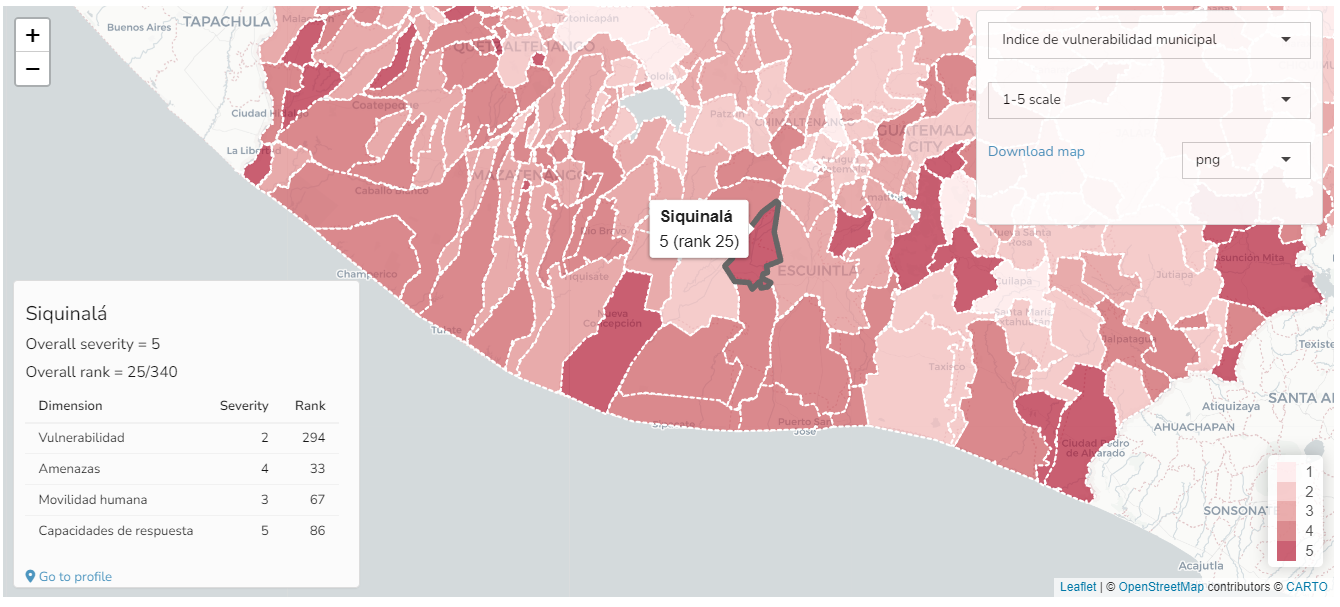
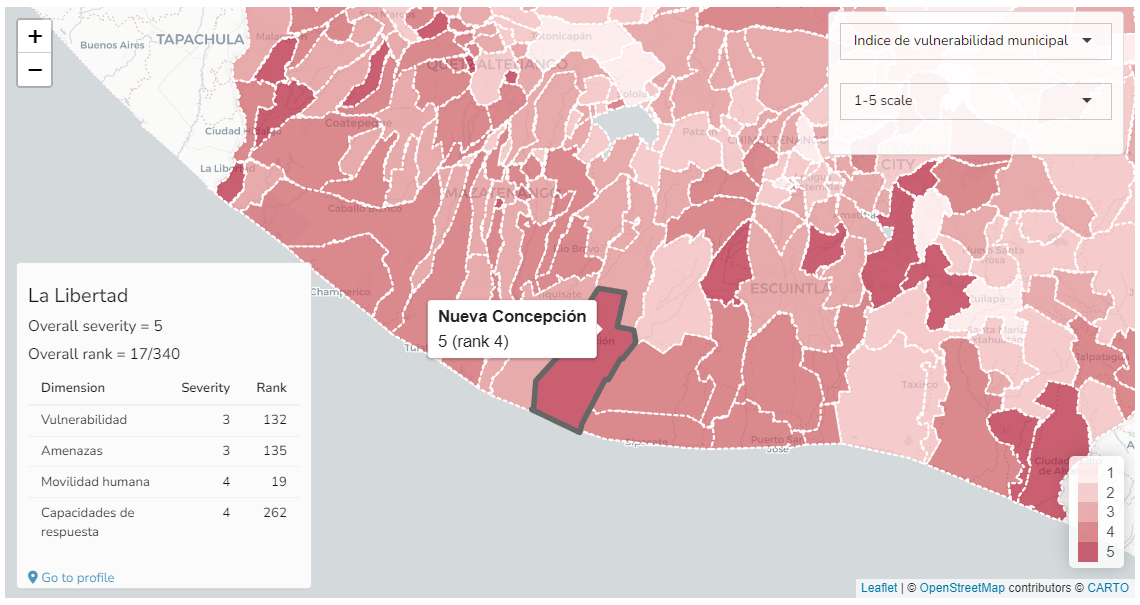
book updates

diff --git a/docs/book/results.html b/docs/book/results.html
@@ -212,6 +212,7 @@ ul.task-list li input[type="checkbox"] {
   <li><a href="#map-and-table" id="toc-map-and-table" class="nav-link" data-scroll-target="#map-and-table"><span class="header-section-number">5.2</span> Map and table</a></li>
   <li><a href="#bar-chart" id="toc-bar-chart" class="nav-link" data-scroll-target="#bar-chart"><span class="header-section-number">5.3</span> Bar chart</a></li>
   <li><a href="#scenarios" id="toc-scenarios" class="nav-link" data-scroll-target="#scenarios"><span class="header-section-number">5.4</span> Scenarios</a></li>
+  <li><a href="#export" id="toc-export" class="nav-link" data-scroll-target="#export"><span class="header-section-number">5.5</span> Export</a></li>
   </ul>
 </nav>
     </div>
@@ -252,7 +253,6 @@ ul.task-list li input[type="checkbox"] {
 <p>In the main “Results” box, the top level of the index is plotted on the map, with colour shading representing the index scores. The map is interactive, allowing you to pan and zoom using by clicking and dragging, or scrolling with the mouse wheel.</p>
 <p>Hovering over each region gives further details about the region, including its score and rank. Clicking on a region will open a box in the bottom left with more details, including its scores and ranks for the aggregation level below the index, as well as its overall score and rank. Clicking on the “Go to profile” link here will go to an even more detailed profile of that region, which is explained later in <a href="profiles.html"><span>Chapter&nbsp;6</span></a>.</p>
 <p>You can change which indicator or aggregate is plotted on the map using the uppermost dropdown menu in the top right of this box. You can also select whether to view the scores as a 1-5 (categorical) scale or on the 1-100 scale (raw values at the indicator level).</p>
-<p>The map is downloadable in various formats by selecting the file format (either png, jpeg, pdf or html) and clicking the “download map” link. Capturing the map images is unfortunately not perfect and you may have to experiment a little to get the best results. An alternative, which can offer more control, may be to download the map as an HTML file, then open it in a separate tab, and save the image there using the “print to pdf” functionality in your browser, or to simply take a screenshot (in the latter case, you can maximise the window with F11 and take a screenshot of the full window using Windows’ “snipping” tool, for example).</p>
 <p>In the same “Results” box you can also select the “Table” tab to see the results as a table.</p>
 <p><img src="figs/results_2.png" class="img-fluid" style="width:100.0%"></p>
 <p>The table is colour-formatted to help highlight high and low values. The table rows are sorted by the highest index score downwards, and the columns are sorted from the highest level downwards. You can sort the table by different columns by clicking on the column headers, and search for particular units using the search box.</p>
@@ -264,10 +264,19 @@ ul.task-list li input[type="checkbox"] {
 </section>
 <section id="scenarios" class="level2" data-number="5.4">
 <h2 data-number="5.4" class="anchored" data-anchor-id="scenarios"><span class="header-section-number">5.4</span> Scenarios</h2>
-<p>By default the index is calculated using the arithmetic mean, which implies that low (high) scores in one indicator are perfectly compensated by high (low) scores in another. Optionally, select “Scenario 2” which uses the geometric mean: in this case lower scores in one indicator are less compensated by higher scores in others, or “Scenario 3” which implies even less compensation. Click “Recalculate” to see the new results.</p>
+<p>By default the index is calculated using the arithmetic mean, which implies that low (high) scores in one indicator are perfectly compensated by high (low) scores in another. Optionally, in the “Adjust” box, select “Scenario 2” which uses the geometric mean: in this case lower scores in one indicator are less compensated by higher scores in others, or “Scenario 3” which implies even less compensation. Click “Recalculate” to see the new results. More details on the aggregation methods are given in <a href="aggregation_weighting.html"><span>Chapter&nbsp;11</span></a>.</p>
+<p><img src="figs/results_4.png" class="img-fluid" style="width:40.0%"></p>
 <p>Importantly, the scenario selected here will be used as the “main” results in the rest of the app, including in the “Profiles” and “Region comparison” tabs. All scenarios can additionally be compared in one place in the “Scenarios” tab, which is explained in <a href="scenarios.html"><span>Chapter&nbsp;7</span></a>.</p>
-<p>Clicking on the ‘gear’ icon in the top right of this box opens the option to adjust weights. If this is enabled, you can interactively adjust weights for the highest level of the index (below the index). However, in general equal weights are strongly recommended unless there is a specific reason to weight otherwise.</p>
-<p>More details on the aggregation methods are given in <a href="aggregation_weighting.html"><span>Chapter&nbsp;11</span></a>.</p>
+<p>Clicking on the ‘gear’ icon in the top right of this box opens the option to adjust weights. If this is enabled, you can interactively adjust weights for the highest level of the index (below the index). <em>Please note however, this feature is not well-tested.</em> Additionally, in general equal weights are strongly recommended unless there is a specific reason to weight otherwise. If weight adjustments are required, it is probably better to do this in the input Excel file.</p>
+</section>
+<section id="export" class="level2" data-number="5.5">
+<h2 data-number="5.5" class="anchored" data-anchor-id="export"><span class="header-section-number">5.5</span> Export</h2>
+<p>The Export box contains options for exporting the results to Excel or R, or to download map images.</p>
+<p><img src="figs/results_5.png" class="img-fluid" style="width:40.0%"></p>
+<p>The map is downloadable in various formats by selecting the file format (either png, jpeg, pdf or html) and clicking the “Click to download” link. Capturing the map images is unfortunately not perfect and you may have to experiment a little to get the best results. An alternative, which can offer more control, may be to download the map as an HTML file, then open it in a separate tab, and save the image there using the “print to pdf” functionality in your browser, or to simply take a screenshot (in the latter case, you can maximise the window with F11 and take a screenshot of the full window using Windows’ “snipping” tool, for example).</p>
+<p>Finally the “Export results” section can be used to download the results as they stand either to Excel or as a file that can be read by R.</p>
+<p>If downloaded to Excel, the file will contain a number of tabs showing the results on both the 1-100 scale and the categorical 1-5 scale, for all scenarios. It also records the analysis tables, and metadata such as the weights and index structure.</p>
+<p>If downloaded to R, the file can be loaded into R and will contain the “coin”, which is an object encapsulating a composite indicator and used by the COINr package, which is the basis of the A2SIT app calculations. See <a href="https://bluefoxr.github.io/COINr/articles/coins.html">COINr documentation</a> for more details on how to work with coins.</p>
 
 
 </section>

diff --git a/docs/book/layout.html b/docs/book/layout.html
@@ -265,15 +265,12 @@ ul.task-list li input[type="checkbox"] {
 <p>The header contains several useful features which can be accessed at any time.</p>
 <p><img src="figs/index_3.png" class="img-fluid" style="width:100.0%"></p>
 <p>On the right side, the help icon gives a pop-up help window. The window is different for each tab, and gives specific help for that tab. However, the most detailed help is available in this book.</p>
-<p>The “Bookmark session” button can be used to generate a link which allows you to return your app session in the future, and can be shared with others. This is generally only useful once you have uploaded data. In that case, at any point in the app, copy the bookmark link. You can put this link back in your browser at any point to return to the same point in the app, with your data saved. Keep in mind that:</p>
+<p>The “Save progress” button can be used to generate a link which allows you to return your app session in the future, and can be shared with others. This is generally only useful once you have uploaded data. In that case, at any point in the app, copy the bookmark link. You can put this link back in your browser at any point to return to the same point in the app, with your data saved. Keep in mind that:</p>
 <ul>
 <li>The bookmark link takes you back to the exact point when you saved: it will not remember anything you did after you created the bookmark</li>
 <li>Please don’t create more bookmarks than necessary - each one takes up server space</li>
 <li>We may delete old bookmark files if necessary, to avoid overloading the server space if necessary. <em>To add a policy here maybe, if we need to</em></li>
 </ul>
-<p>Finally in the header, the “Export” button can be used to download the results as they stand either to Excel or as a file that can be read by R.</p>
-<p>If downloaded to Excel, the file will contain a number of tabs showing the results on both the 1-100 scale and the categorical 1-5 scale, for all scenarios. It also records the analysis tables, and metadata such as the weights and index structure.</p>
-<p>If downloaded to R, the file can be loaded into R and will contain the “coin”, which is an object encapsulating a composite indicator and used by the COINr package, which is the basis of the A2SIT app calculations. See <a href="https://bluefoxr.github.io/COINr/articles/coins.html">COINr documentation</a> for more details on how to work with coins.</p>
 
 
 </section>

diff --git a/docs/book/index.html b/docs/book/index.html
@@ -6,8 +6,8 @@
 
 <meta name="viewport" content="width=device-width, initial-scale=1.0, user-scalable=yes">
 
-<meta name="author" content="Authors + William Becker (to be updated)">
-<meta name="dcterms.date" content="2023-07-17">
+<meta name="author" content="Authors">
+<meta name="dcterms.date" content="2023-07-28">
 
 <title>Admin2 Severity Index Tool</title>
 <style>
@@ -233,14 +233,14 @@ ul.task-list li input[type="checkbox"] {
     <div>
     <div class="quarto-title-meta-heading">Author</div>
     <div class="quarto-title-meta-contents">
-             <p>Authors + William Becker (to be updated) </p>
+             <p>Authors </p>
           </div>
   </div>
     
     <div>
     <div class="quarto-title-meta-heading">Published</div>
     <div class="quarto-title-meta-contents">
-      <p class="date">July 17, 2023</p>
+      <p class="date">July 28, 2023</p>
     </div>
   </div>
   
